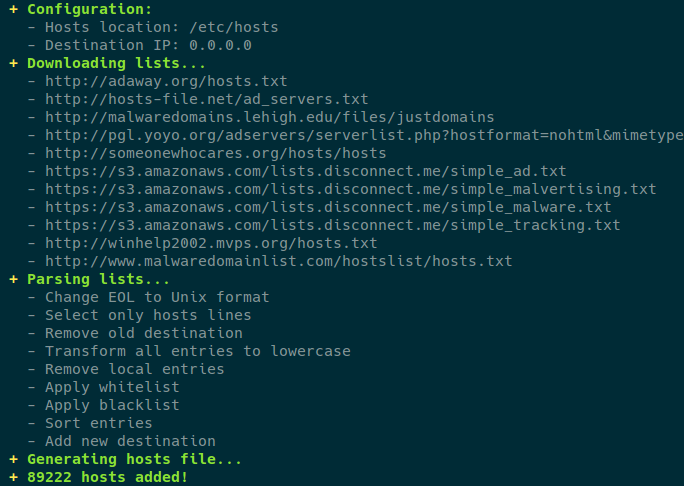
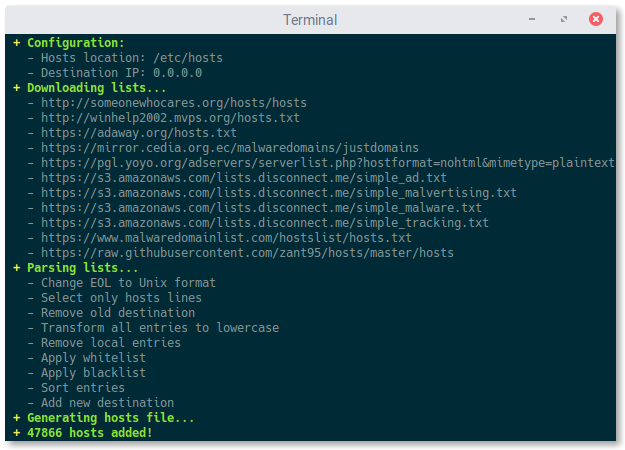
Update hosts list and fixes

diff --git a/README.md b/README.md
@@ -1,16 +1,16 @@
 # hosts-update
 This bash script, designed for GNU/Linux, generates a hosts file based on multiple sources.
-- http://adaway.org/hosts.txt
-- http://hosts-file.net/ad_servers.txt
-- http://malwaredomains.lehigh.edu/files/justdomains
-- http://pgl.yoyo.org/adservers/serverlist.php?hostformat=nohtml&mimetype=plaintext
 - http://someonewhocares.org/hosts/hosts
+- http://winhelp2002.mvps.org/hosts.txt
+- https://adaway.org/hosts.txt
+- https://mirror.cedia.org.ec/malwaredomains/justdomains
+- https://pgl.yoyo.org/adservers/serverlist.php?hostformat=nohtml&mimetype=plaintext
 - https://s3.amazonaws.com/lists.disconnect.me/simple_ad.txt
 - https://s3.amazonaws.com/lists.disconnect.me/simple_malvertising.txt
 - https://s3.amazonaws.com/lists.disconnect.me/simple_malware.txt
 - https://s3.amazonaws.com/lists.disconnect.me/simple_tracking.txt
-- http://winhelp2002.mvps.org/hosts.txt
-- http://www.malwaredomainlist.com/hostslist/hosts.txt
+- https://www.malwaredomainlist.com/hostslist/hosts.txt
+- https://raw.githubusercontent.com/zant95/hosts/master/hosts
 
 ## What is this for?
 To prevent your computer from connecting to domains who serve ads and malware.
